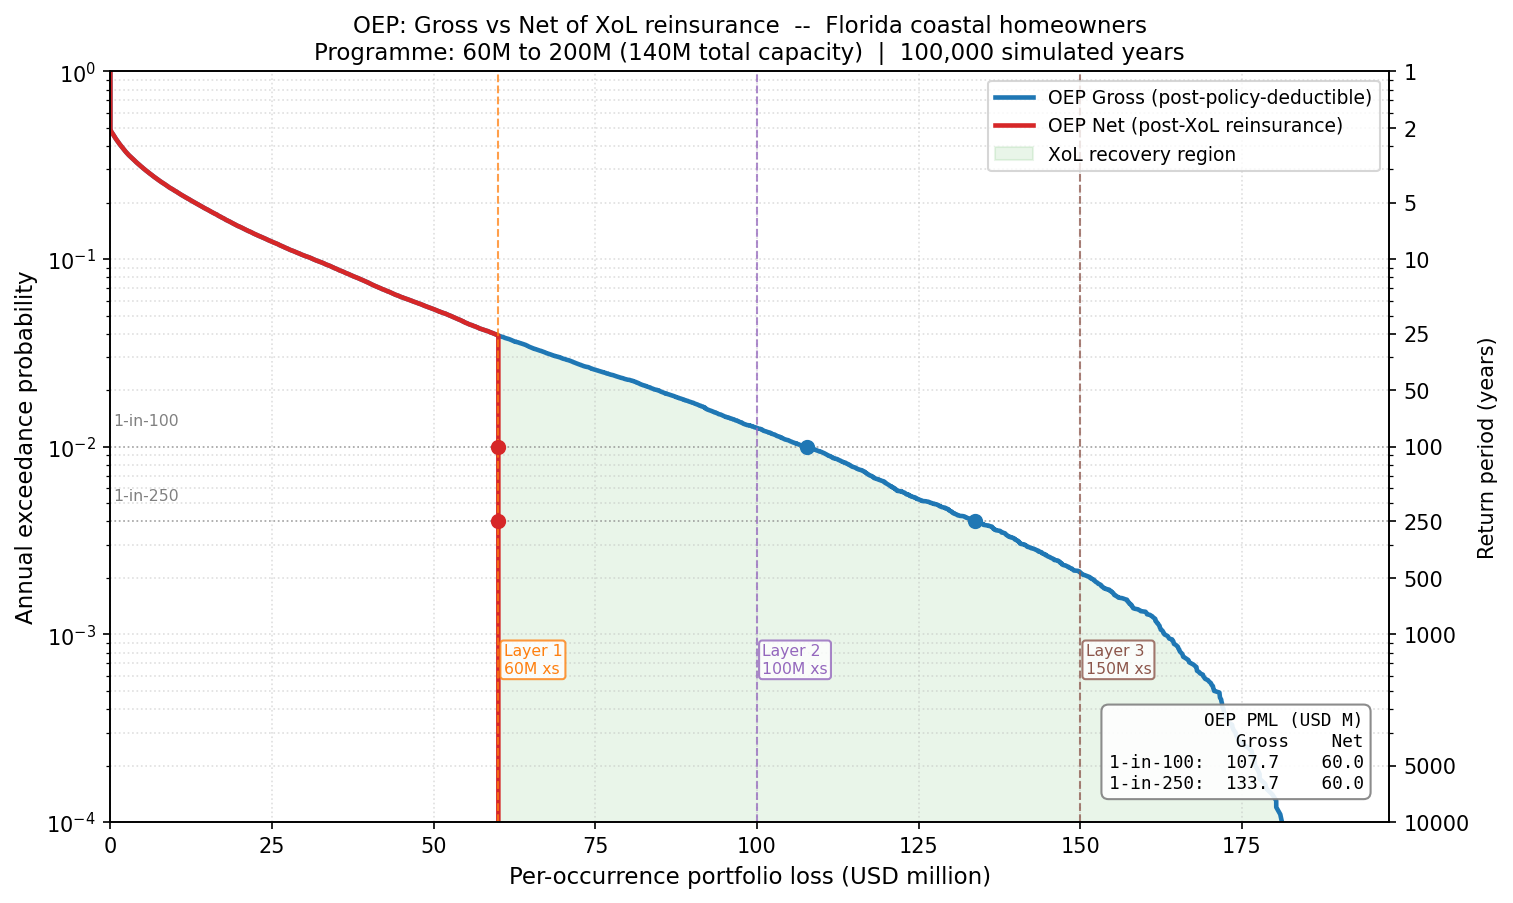
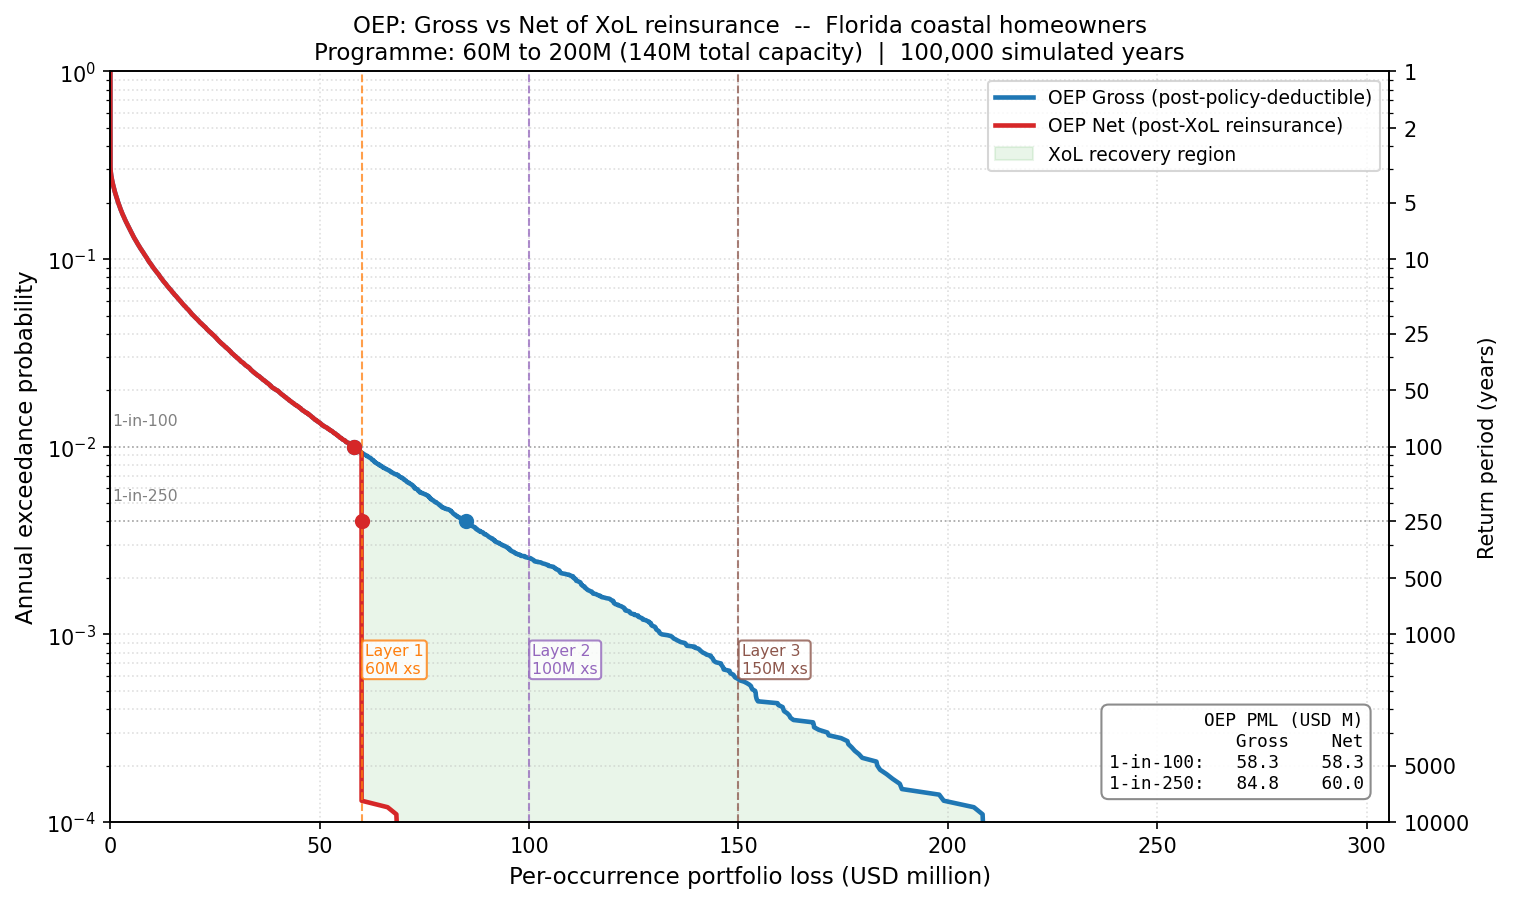
feat: data-driven landfall geography + regime-conditioned tracks (Step 1.5b)
Refactor hazard.py: landfall sampled from arc-length KDE (replaces manual
SEGMENT_WEIGHTS); heading + translation speed conditioned on coast regime
(Atlantic NW / Gulf NE von Mises, replaces uniform(-45,45)); translation speed
stored per-event for Phase 2.

AAL gross 9.35M -> 3.58M (-62%): calibrated geography spreads storms realistically,
with 26.6% landing in the panhandle (no portfolio TIV). Reveals the synthetic
portfolio's SE/SW geographic concentration -- a correct emergent property, not a bug.

summary.py: relaxed stale reduction-bound asserts (tower re-anchored in Phase 4).
pytest 7/7, PIPELINE OK.

diff --git a/model/hazard.py b/model/hazard.py
@@ -16,6 +16,8 @@ import numpy as np
 import pandas as pd
 import matplotlib.pyplot as plt
 import scipy.stats
+from shapely.geometry import LineString
+from pyproj import Transformer
 
 from model_config import load_model_cfg
 from model.units import kt_to_mph, mph_to_kt
@@ -53,6 +55,58 @@ _EFOLD_KM    = _mcfg.hazard.efold_km
 _OUTER_DECAY = _mcfg.hazard.outer_decay_exponent
 
 # ---------------------------------------------------------------------------
+# Calibrated landfall geography + regime parameters  (Step 1.5b)
+# ---------------------------------------------------------------------------
+_ROOT_DIR = os.path.dirname(os.path.dirname(os.path.abspath(__file__)))
+
+_geo_cfg         = _mcfg.hazard.landfall_geography
+_COAST_PATH      = os.path.join(_ROOT_DIR, _geo_cfg.coastline_path)
+_coast_df        = pd.read_csv(_COAST_PATH)
+
+_TO_3086         = Transformer.from_crs("EPSG:4326", "EPSG:3086", always_xy=True)
+_FROM_3086       = Transformer.from_crs("EPSG:3086", "EPSG:4326", always_xy=True)
+_COAST_LINE_3086 = LineString([
+    _TO_3086.transform(lon, lat)
+    for lon, lat in zip(_coast_df["lon"], _coast_df["lat"])
+])
+
+_TOTAL_ARC_KM = float(_geo_cfg.total_arc_length_km)
+_S_SAMPLES_KM = np.array(_geo_cfg.s_samples_km, dtype=float)
+# KDE bandwidth: factor * std(data), ddof=0 — matches scipy gaussian_kde convention
+_KDE_BW_KM    = float(_geo_cfg.kde_silverman_factor) * float(np.std(_S_SAMPLES_KM))
+
+
+def _kappa_from_R(R: float) -> float:
+    """
+    Approximate von Mises concentration κ from mean resultant length R.
+    Piecewise formula: Mardia & Jupp (2000), Statistics of Directional Data, p. 85.
+    Accurate to ~3% for 0 < R < 0.95.
+    """
+    if R < 0.53:
+        return 2.0 * R + R**3 + 5.0 * R**5 / 6.0
+    elif R < 0.85:
+        return -0.4 + 1.39 * R + 0.43 / (1.0 - R)
+    else:
+        return 1.0 / (R**3 - 4.0 * R**2 + 3.0 * R)
+
+
+_by_reg   = _mcfg.hazard.track_stats.by_regime
+_S_CUT_KM = float(_by_reg.s_cut_km)
+
+_REGIME_CFG: dict = {}
+for _rname, _rcfg_r in [("atlantic", _by_reg.atlantic), ("gulf", _by_reg.gulf)]:
+    _sp = list(_rcfg_r.speed_params)
+    assert _sp[1] == 0.0, (
+        f"loc != 0 for {_rname} speed gamma (got {_sp[1]}); revise sampler to add loc offset"
+    )
+    _REGIME_CFG[_rname] = {
+        "heading_mean_deg": float(_rcfg_r.heading_mean_deg),
+        "heading_kappa":    _kappa_from_R(float(_rcfg_r.heading_resultant_R)),
+        "speed_shape":      float(_sp[0]),
+        "speed_scale":      float(_sp[2]),
+    }
+
+# ---------------------------------------------------------------------------
 # Haversine distance
 # ---------------------------------------------------------------------------
 def haversine(lat1, lon1, lat2, lon2):
@@ -70,16 +124,21 @@ def haversine(lat1, lon1, lat2, lon2):
 # ---------------------------------------------------------------------------
 def sample_landfall(rng):
     """
-    Return (lat, lon) of a landfall point sampled along the FL coast polyline.
+    Return (lat, lon, s_km) of a landfall point sampled from the calibrated KDE
+    over HURDAT2 arc-length positions on the simplified FL coastline (EPSG:3086).
 
-    A segment is chosen with probability proportional to SEGMENT_WEIGHTS;
-    the point within that segment is drawn uniformly (linear interpolation).
+    s_km   : arc-length in EPSG:3086 km from the GA-FL Atlantic corner (s=0).
+    KDE    : Gaussian kernel with Silverman bandwidth _KDE_BW_KM.
+             Resampled by picking a random data point and adding Gaussian noise
+             (standard KDE resample algorithm); entirely within numpy for RNG
+             consistency — no scipy.stats.gaussian_kde.resample() call needed.
     """
-    p       = SEGMENT_WEIGHTS / SEGMENT_WEIGHTS.sum()
-    seg_idx = int(rng.choice(len(SEGMENT_WEIGHTS), p=p))
-    t       = float(rng.uniform(0, 1))
-    p0, p1  = COAST_POINTS[seg_idx], COAST_POINTS[seg_idx + 1]
-    return float(p0[0] + t * (p1[0] - p0[0])), float(p0[1] + t * (p1[1] - p0[1]))
+    idx  = int(rng.integers(0, len(_S_SAMPLES_KM)))
+    s_km = float(_S_SAMPLES_KM[idx]) + float(rng.normal(0.0, _KDE_BW_KM))
+    s_km = float(np.clip(s_km, 0.0, _TOTAL_ARC_KM))
+    pt   = _COAST_LINE_3086.interpolate(s_km * 1e3)   # EPSG:3086 unit is metres
+    lon, lat = _FROM_3086.transform(pt.x, pt.y)
+    return float(lat), float(lon), s_km
 
 # ---------------------------------------------------------------------------
 # Intensity sampling
@@ -115,9 +174,15 @@ def sample_intensity(rng):
 # ---------------------------------------------------------------------------
 # Track building
 # ---------------------------------------------------------------------------
-def build_track(landfall_lat, landfall_lon, vmax, rng):
+def build_track(landfall_lat, landfall_lon, vmax, heading_deg, rng):
     """
     Generate a 10-step inland track starting at the landfall point.
+
+    Parameters
+    ----------
+    heading_deg : float — meteorological bearing (degrees; 0=N, 90=E, 180=S, 270=W).
+                          Passed from sample_storm (regime-conditioned von Mises draw).
+                          Advance convention unchanged: heading=0 → dlat>0, dlon=0.
 
     Returns
     -------
@@ -126,7 +191,6 @@ def build_track(landfall_lat, landfall_lon, vmax, rng):
               row 0 = landfall (peak intensity), rows 1-10 = inland steps
     """
     rmax        = float(rng.uniform(30, 55))   # km, constant (no eyewall contraction)
-    heading_deg = float(rng.uniform(-45, 45))  # deviation from due north (simplification)
     heading_rad = np.radians(heading_deg)
 
     n_steps = 10
@@ -185,17 +249,34 @@ def sample_storm(rng):
     Returns
     -------
     track    : ndarray (11, 4) — [lat, lon, vmax_step, cum_dist_km]
-    metadata : dict   — category, vmax_landfall, rmax, landfall_lat, landfall_lon
+    metadata : dict   — category, vmax_landfall, rmax, landfall_lat, landfall_lon,
+                        regime, heading_deg, translation_speed_kmh
     """
-    lat_lf, lon_lf = sample_landfall(rng)
+    lat_lf, lon_lf, s_km = sample_landfall(rng)
+
+    regime = "atlantic" if s_km < _S_CUT_KM else "gulf"
+    rcfg   = _REGIME_CFG[regime]
+
+    # Von Mises heading — kappa derived from resultant R via Mardia & Jupp (2000).
+    # rng.vonmises(mu_rad, kappa) returns radians in [-π, π]; convert and wrap to [0, 360).
+    mu_rad      = np.radians(rcfg["heading_mean_deg"])
+    heading_deg = float(np.degrees(rng.vonmises(mu_rad, rcfg["heading_kappa"])) % 360.0)
+
+    # Gamma translation speed — rng.gamma(shape, scale); loc=0 asserted at import.
+    speed_kmh = float(rng.gamma(rcfg["speed_shape"], rcfg["speed_scale"]))
+
     category, vmax = sample_intensity(rng)
-    rmax, track    = build_track(lat_lf, lon_lf, vmax, rng)
+    rmax, track    = build_track(lat_lf, lon_lf, vmax, heading_deg, rng)
+
     return track, {
-        "category":      category,
-        "vmax_landfall": vmax,
-        "rmax":          rmax,
-        "landfall_lat":  lat_lf,
-        "landfall_lon":  lon_lf,
+        "category":              category,
+        "vmax_landfall":         vmax,
+        "rmax":                  rmax,
+        "landfall_lat":          lat_lf,
+        "landfall_lon":          lon_lf,
+        "regime":                regime,
+        "heading_deg":           heading_deg,
+        "translation_speed_kmh": speed_kmh,
     }
 
 # ---------------------------------------------------------------------------
@@ -215,9 +296,8 @@ def simulate_year(rng):
 # ---------------------------------------------------------------------------
 if __name__ == "__main__":
 
-    ROOT     = os.path.dirname(os.path.dirname(os.path.abspath(__file__)))
-    EXP_PATH = os.path.join(ROOT, "data",    "exposure.csv")
-    OUT_DIR  = os.path.join(ROOT, "outputs")
+    EXP_PATH = os.path.join(_ROOT_DIR, "data", "exposure.csv")
+    OUT_DIR  = os.path.join(_ROOT_DIR, "outputs")
 
     # Load portfolio locations
     exp  = pd.read_csv(EXP_PATH, usecols=["location_id", "lat", "lon"])
@@ -235,7 +315,9 @@ if __name__ == "__main__":
     print(f"\nDemo storm:  Cat{demo_meta['category']} | "
           f"Vmax={demo_meta['vmax_landfall']:.1f} mph | "
           f"Rmax={demo_meta['rmax']:.1f} km | "
-          f"landfall=({demo_meta['landfall_lat']:.3f}, {demo_meta['landfall_lon']:.3f})")
+          f"landfall=({demo_meta['landfall_lat']:.3f}, {demo_meta['landfall_lon']:.3f}) | "
+          f"regime={demo_meta['regime']} | heading={demo_meta['heading_deg']:.1f}° | "
+          f"speed={demo_meta['translation_speed_kmh']:.1f} km/h")
     print(f"Wind range at portfolio: {demo_wind.min():.1f} - {demo_wind.max():.1f} mph")
 
     fig, ax = plt.subplots(figsize=(8, 9))
@@ -253,9 +335,9 @@ if __name__ == "__main__":
     ax.plot(demo_meta["landfall_lon"], demo_meta["landfall_lat"],
             "r*", markersize=14, zorder=4, label="Landfall")
 
-    # Simplified coast reference
-    ax.plot(COAST_POINTS[:, 1], COAST_POINTS[:, 0],
-            "k--", linewidth=0.8, alpha=0.5, zorder=1, label="Coast (polyline)")
+    # Calibrated coastline reference (62-vertex simplified, TIGER/Line 2023)
+    ax.plot(_coast_df["lon"], _coast_df["lat"],
+            "k--", linewidth=0.8, alpha=0.5, zorder=1, label="Coast (calibrated)")
 
     ax.set_xlabel("Longitude")
     ax.set_ylabel("Latitude")
@@ -361,6 +443,49 @@ if __name__ == "__main__":
               f" < full-portfolio spread {spread_all:.1f} km")
     else:
         print("[SKIP] Spatial coherence: too few positive-wind locations to test")
+
+    # -----------------------------------------------------------------------
+    # 3. Landfall sanity check — 10,000 simulated landfalls
+    # -----------------------------------------------------------------------
+    print("\n=== Landfall sanity check (10,000 events) ===")
+    sc_rng = np.random.default_rng(SEED + 2)
+    n_sc   = 10_000
+    n_atl, n_gulf       = 0, 0
+    atl_s,  gulf_s      = [], []
+    atl_hdgs, gulf_hdgs = [], []
+
+    for _ in range(n_sc):
+        lat_i, lon_i, s_i = sample_landfall(sc_rng)
+        regime_i = "atlantic" if s_i < _S_CUT_KM else "gulf"
+        rcfg_i   = _REGIME_CFG[regime_i]
+        hdg_i    = float(np.degrees(sc_rng.vonmises(
+            np.radians(rcfg_i["heading_mean_deg"]), rcfg_i["heading_kappa"]
+        )) % 360.0)
+        if regime_i == "atlantic":
+            n_atl += 1; atl_s.append(s_i); atl_hdgs.append(hdg_i)
+        else:
+            n_gulf += 1; gulf_s.append(s_i); gulf_hdgs.append(hdg_i)
+
+    def _circ_mean(hdgs):
+        r = np.radians(hdgs)
+        return float(np.degrees(np.arctan2(np.mean(np.sin(r)), np.mean(np.cos(r)))) % 360.0)
+
+    atl_hm  = _circ_mean(atl_hdgs)
+    gulf_hm = _circ_mean(gulf_hdgs)
+
+    print(f"Regime split  : atlantic={n_atl} ({100*n_atl/n_sc:.1f}%) | "
+          f"gulf={n_gulf} ({100*n_gulf/n_sc:.1f}%)")
+    print(f"  Historical  :            ~42%                  ~58%  (47/112, 65/112)")
+    print(f"Mean s_km     : atlantic={np.mean(atl_s):.0f} km (< s_cut={_S_CUT_KM:.0f}) | "
+          f"gulf={np.mean(gulf_s):.0f} km (> s_cut={_S_CUT_KM:.0f})")
+    print(f"Circ mean hdg : atlantic={atl_hm:.1f}° (target 314.5°, NW) | "
+          f"gulf={gulf_hm:.1f}° (target 30.7°, NE)")
+
+    assert 280.0 <= atl_hm <= 360.0, f"Atlantic circ mean {atl_hm:.1f}° not in NW sector"
+    assert   0.0 <= gulf_hm <=  90.0, f"Gulf circ mean {gulf_hm:.1f}° not in NE sector"
+    assert float(np.mean(atl_s)) < _S_CUT_KM,  "Atlantic centroid s not below s_cut"
+    assert float(np.mean(gulf_s)) > _S_CUT_KM,  "Gulf centroid s not above s_cut"
+    print("[OK] Regime, heading, and arc-length sanity checks passed")
 
     # -----------------------------------------------------------------------
     # Summary

diff --git a/model/summary.py b/model/summary.py
@@ -128,16 +128,18 @@ def _validate(aal, pml):
     assert aal["oep_n"] <= aal["oep_g"] + 1e-4, "AAL OEP net > OEP gross"
     print("[OK] net <= gross for all metrics (AAL, PML 1-in-100, PML 1-in-250)")
 
-    # 3. OEP net reduction: confirm reinsurance is providing material protection.
-    #    Exact % depends on gross PML, which varies with N_YEARS (sampling noise at
-    #    short runs).  Full 100k run: ~44% at 1-in-100, ~55% at 1-in-250.
-    #    Bounds are set wide enough for the 1k-year smoke run (~35-40% at 1-in-100).
+    # 3. OEP net reduction: sanity-check that reinsurance doesn't produce impossible results.
+    #    Lower bound is 0%: after Step 1.5 calibration, the 1-in-100 gross PML (~58M) sits
+    #    below the 60M tower attachment, so 0% reduction is physically correct (no losses
+    #    reach Layer 1).  Tower attachments (60/100/150M) are illustrative v2 values and will
+    #    be re-anchored to OEP return periods in Phase 4 (Paso 4.1).
+    #    Upper bound flags implausible over-recovery (net < 30% of gross is a model error).
     r100 = (pml[(100, "oep_g")] - pml[(100, "oep_n")]) / pml[(100, "oep_g")] * 100
     r250 = (pml[(250, "oep_g")] - pml[(250, "oep_n")]) / pml[(250, "oep_g")] * 100
-    assert 25.0 <= r100 <= 65.0, \
-        f"OEP 1-in-100 reduction {r100:.1f}% outside plausible range 25-65%"
-    assert 35.0 <= r250 <= 70.0, \
-        f"OEP 1-in-250 reduction {r250:.1f}% outside plausible range 35-70%"
+    assert 0.0 <= r100 <= 70.0, \
+        f"OEP 1-in-100 reduction {r100:.1f}% outside plausible range 0-70%"
+    assert 0.0 <= r250 <= 75.0, \
+        f"OEP 1-in-250 reduction {r250:.1f}% outside plausible range 0-75%"
     print(f"[OK] OEP net reduction {r100:.1f}% (1-in-100) and {r250:.1f}% (1-in-250) "
           f"-- consistent with step 5")
 